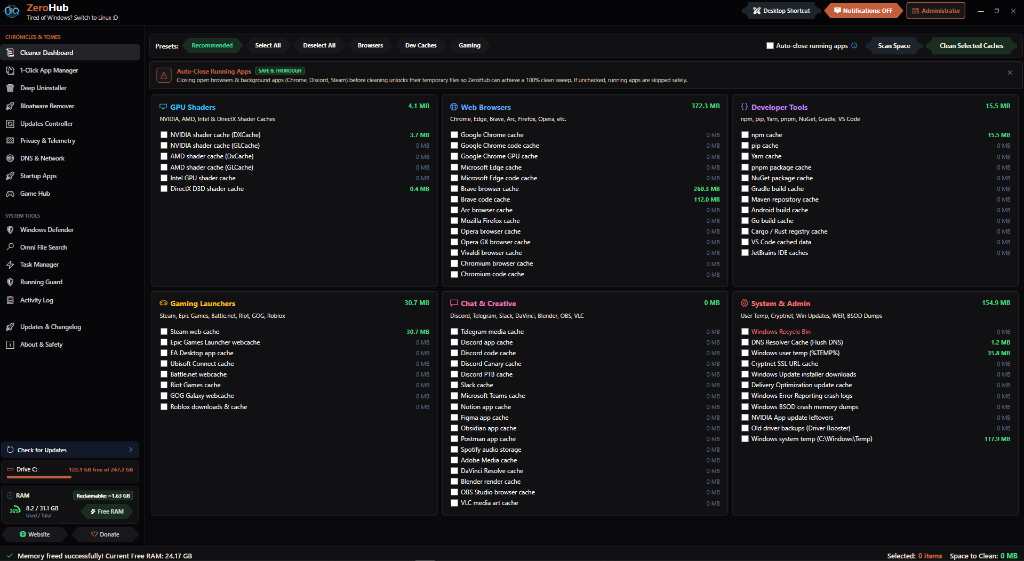
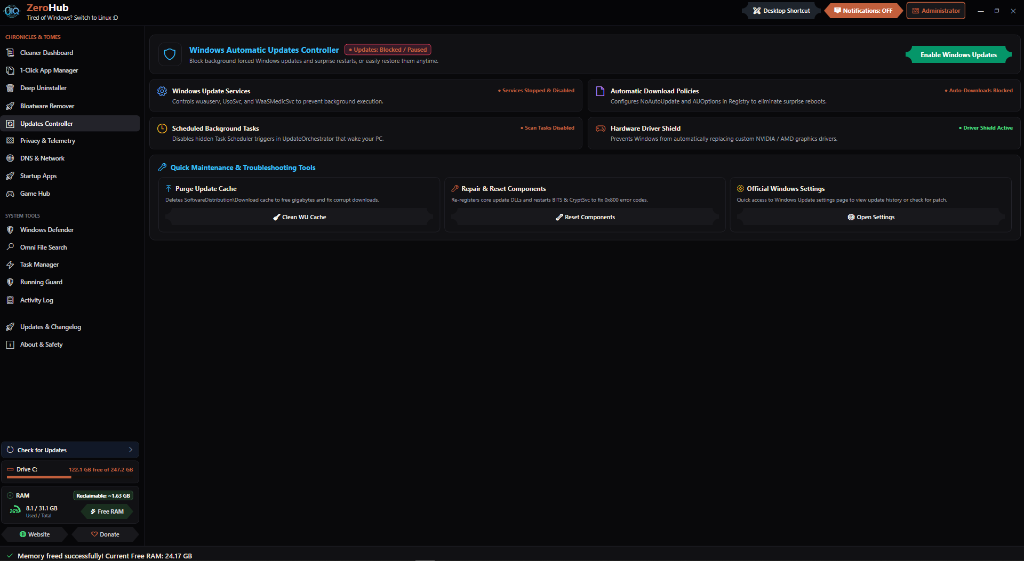
Update screenshots and README documentation

diff --git a/README.md b/README.md
@@ -1,4 +1,4 @@
-<p align="center">
+<p align="center">
   <a href="https://zeroiq.site/" target="_blank">
     <img src="assets/logo.png" alt="ZeroHub Logo" width="200" height="200">
   </a>
@@ -33,19 +33,15 @@ irm https://raw.githubusercontent.com/ZeroIQs/Zerohub/main/run.ps1 | iex
 ## 📸 Screenshots
 
 <p align="center">
-  <img src="assets/screenshot_cleaner_v132.png" alt="ZeroHub Cleaner Dashboard" width="100%">
+  <img src="assets/1.png" alt="ZeroHub Cleaner Dashboard" width="100%">
 </p>
 
 <p align="center">
-  <img src="assets/screenshot_installer_v132.png" alt="ZeroHub App Manager & Updater" width="100%">
+  <img src="assets/2.png" alt="ZeroHub Windows Updates Controller" width="100%">
 </p>
 
 <p align="center">
-  <img src="assets/screenshot_updates_v132.png" alt="ZeroHub Windows Updates Controller" width="100%">
-</p>
-
-<p align="center">
-  <img src="assets/screenshot_privacy_v132.png" alt="ZeroHub Privacy & Anti-Telemetry Hardener" width="100%">
+  <img src="assets/3.png" alt="ZeroHub Privacy &amp; Anti-Telemetry Hardener" width="100%">
 </p>
 
 ---
